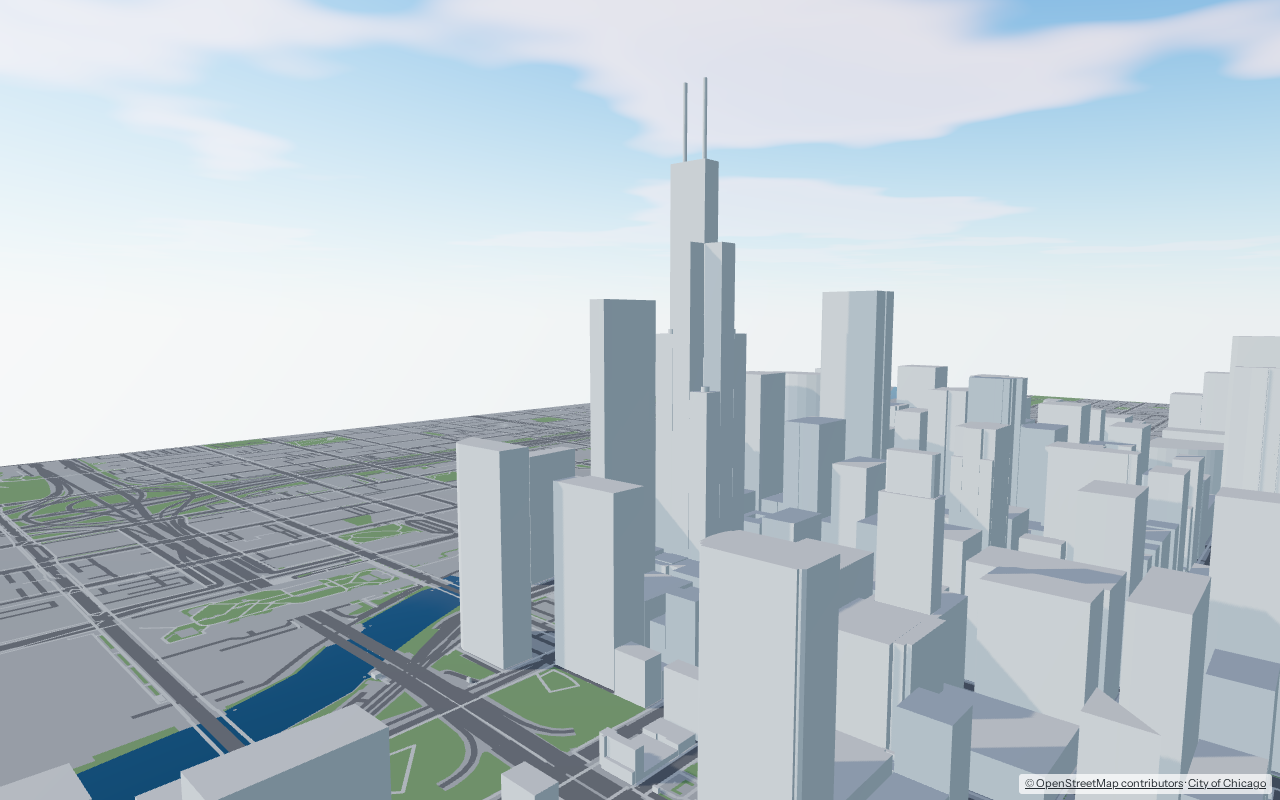
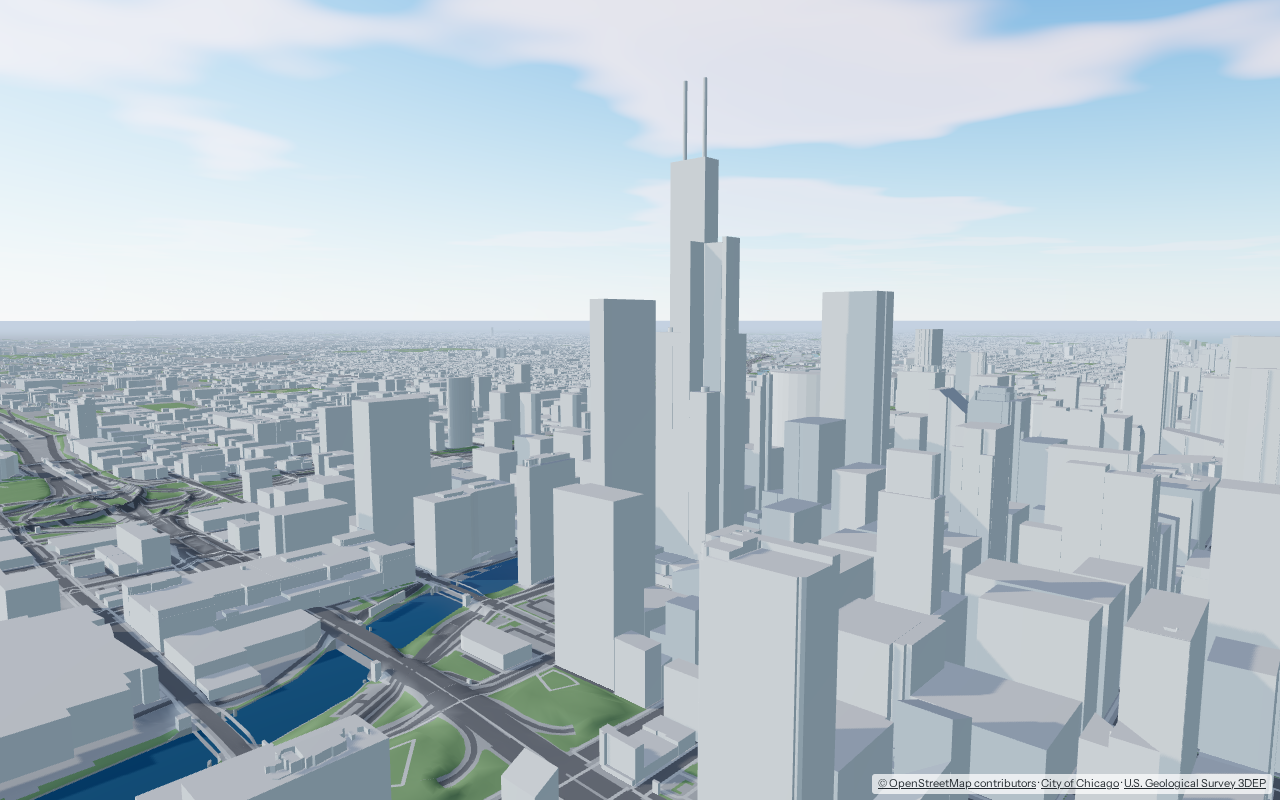
Document phase 2 and wait for the walker to stop in the smoke test

diff --git a/AGENTS.md b/AGENTS.md
@@ -41,7 +41,7 @@ Dependency versions are pinned exactly. When adding or upgrading one, pick a rel
 
 ## Testing instructions
 
-- `./dev test` must pass before every commit. After changing the viewer's controls or picking, also run `./dev smoke` (opens a building card, walks into a wall).
+- `./dev test` must pass before every commit. After changing the viewer's controls or picking, also run `./dev smoke` (opens a building card, walks into a wall and waits until it stops).
 - Add a pytest for new pipeline logic in `pipeline/tests/`. Geometry tests use small synthetic shapes, not downloaded data.
 - **Any change that affects what's rendered** (pipeline output, materials, lighting, camera) needs `./dev eval` before and after. Look at the screenshots in `eval/out/`, and include the relevant before/after images and the draw-call and triangle numbers in the PR description. `UI=1` keeps the panels in the screenshots; `PHONE=1` uses a phone-sized touch viewport (pass them with `docker compose run --rm -e UI=1 eval node render.mjs`).
 - To add a viewpoint, edit `eval/viewpoints.json`. Coordinates are local meters (see below). Name it after the place, not the feature being tested.
@@ -83,7 +83,9 @@ Citywide systems (the L, tree generation, materials) are built as generators tha
 - Each lidar point counts toward the smallest footprint containing it. Footprints more than 10% covered by others keep their mapped height (`apply_lidar` in `tiles.py`). The overlap rule exists because of outlines drawn around tower parts (Willis Tower).
 - Elevations: local z = NAVD88 − `ground_datum` (181 m), so street level at State & Madison is about 0. Water is flat at `water_level` (176.5 m). The ground model includes bridge-deck points only on mapped road and path bridges, because the class also covers L tracks and viaducts.
 - Multi-level streets (Wacker, Columbus, Illinois Center) show up as smooth plateaus in the terrain, not decks. Real decks would need to be modeled as structures.
-- Memory: each lidar worker holds about 2–3 GB. Keep `lidar.workers` at 8 or below on a 32 GB machine, and don't run a second pipeline job while the citywide lidar step is running.
+- Memory: each lidar worker holds about 2–3 GB; each roofs worker about 3 GB plus its roofer process (roofer's memory grows with the area it covers, so it runs per 1 km quadrant); each tile worker about 1–2 GB. The defaults in `pipeline/config.yaml` fit 32 GB. Don't run a second pipeline job while a citywide step is running. Worker pools use `forkserver` (see `_FRESH`): forked workers would copy the parent's memory.
+- `np.load` on an `.npz` decompresses the whole array on every `d["key"]` access. Read each array once into a variable before looping (see `roofs.load`).
+- If a build is killed, Snakemake leaves a lock: run `docker compose run --rm pipeline snakemake -s pipeline/Snakefile -d . --cores 1 --unlock`.
 - roofer is GPL-3.0 and runs as a subprocess from the release binary (Debian trixie image; it needs glibc 2.38+). It rejects custom coordinate systems, so don't pass `--srs`. It reads the CRS from the footprints GeoPackage, and the points are in the same local meters.
 
 ## Gotchas

diff --git a/README.md b/README.md
@@ -4,11 +4,12 @@ A 3D map of Chicago you can walk through in a browser, built only from open data
 
 ![The Loop from over the lake](docs/images/loop-overview.png)
 
-**Status: phase 1 is complete.** All 77 community areas are built: 843,340 buildings as simple extruded blocks, plus streets, paths, parks, the river and Lake Michigan. You can fly over the city like a map or walk through any neighborhood at street level.
+**Status: phase 2 is complete.** All 77 community areas are built: 843,340 buildings, 95% of them with heights measured by lidar and 704,898 with real roof shapes (gables, hips, setbacks), standing on real ground elevation. Streets, paths, parks, the river and Lake Michigan complete the map. You can fly over the city like a map or walk through any neighborhood at street level.
 
 | | |
 |---|---|
 | ![Wrigley Field and Lake View](docs/images/wrigley-field.png) | ![Hyde Park and Jackson Park](docs/images/hyde-park.png) |
+| ![Bungalow roofs in Portage Park](docs/images/bungalow-belt.png) | ![Marina City from the Riverwalk](docs/images/riverwalk.png) |
 | ![18th Street in Pilsen, street level](docs/images/pilsen-18th-street.png) | ![The whole city from over the lake](docs/images/city-overview.png) |
 
 ## Quick start
@@ -16,11 +17,11 @@ A 3D map of Chicago you can walk through in a browser, built only from open data
 You need **Docker** and **bash**. Everything else runs in containers.
 
 ```bash
-./dev build all  # download sources and build the whole city (about 15 minutes the first time)
+./dev build all  # download sources and build the whole city (about 3.5 hours the first time)
 ./dev app        # start the viewer
 ```
 
-The full city downloads about 900 MB and uses about 2.6 GB of disk (plus about 3 GB of Docker images); the tiles themselves are 1.1 GB. To try it faster, `./dev build` builds only the Loop (about 3 minutes).
+The first full build downloads about 13 GB (mostly lidar) and needs about 20 GB of disk plus about 3 GB of Docker images. Most of the time goes to roofer, about 2.5 hours on 28 cores. After that, downloads and roofs are cached, and a rebuild of the tiles takes about 17 minutes. The tiles themselves are 1.5 GB. It needs a machine with 32 GB of memory at the default settings (see `pipeline/config.yaml`). To try it faster, `./dev build` builds only the Loop (about 5 minutes).
 
 Open <http://localhost:5173>.
 
